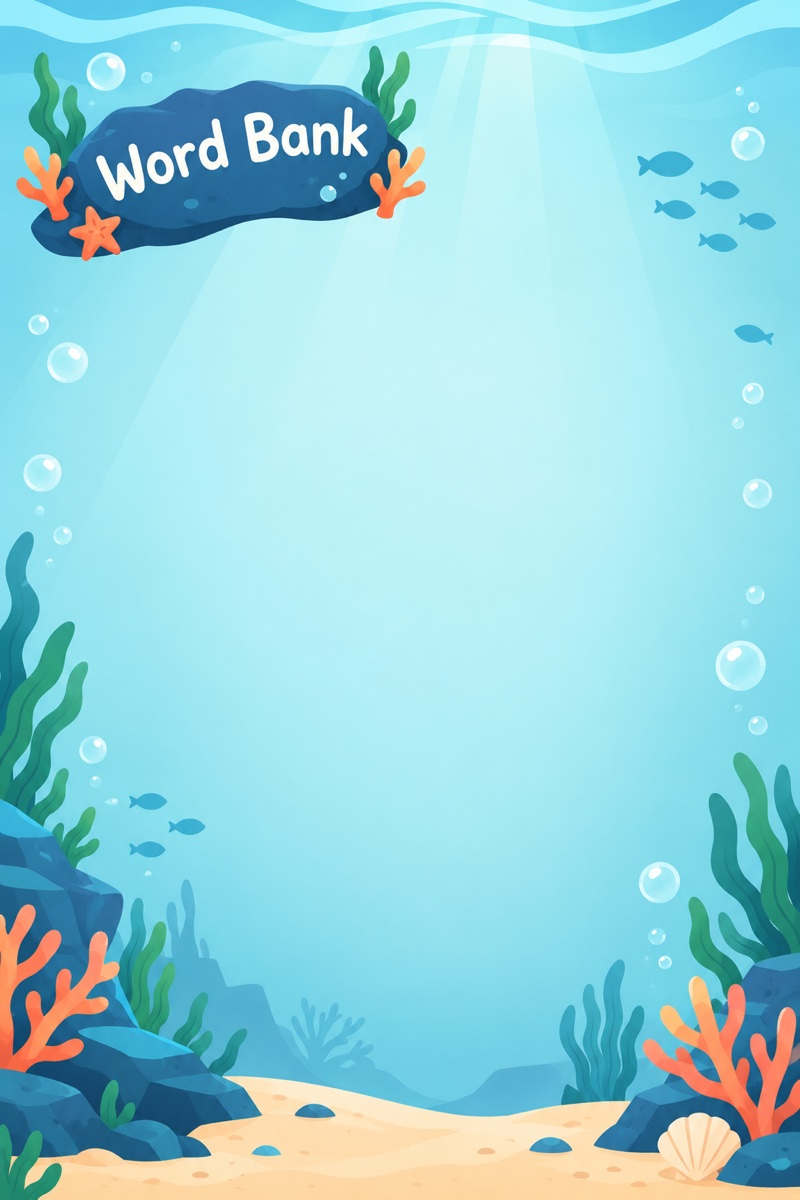
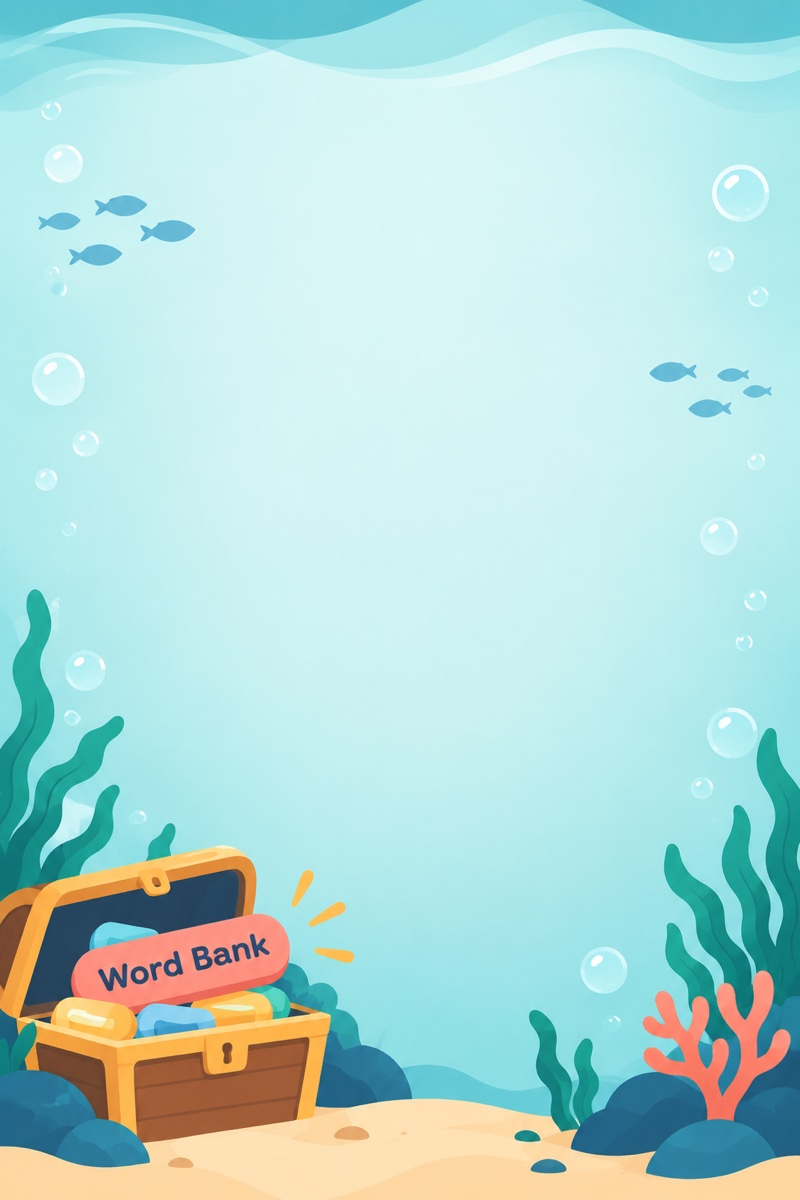
Swap Word Bank background, restore the title pill
New background art has its "Word Bank" label small and tucked into a
treasure chest at the bottom rather than as a real page title, so put
the "Word Bank" pill title back in all 3 hero views. Also dropped the
top padding hack added for the previous background (that image's
title sat up top; this one's decoration is at the bottom, no overlap
to guard against).

diff --git a/src/VocabularyGames.jsx b/src/VocabularyGames.jsx
@@ -402,6 +402,7 @@ export default function VocabularyGames({ query }) {
         <div className="vg-page">
           <div className="vg-hero">
             <span className="vg-eyebrow">Sentivo · Vocabulary</span>
+            <h1><span className="vg-pill">🐬 Word Bank</span></h1>
             <p className="vg-blurb">Results for "{query.trim()}"</p>
           </div>
           <div className="vg-row"></div>
@@ -441,6 +442,7 @@ export default function VocabularyGames({ query }) {
         <div className="vg-page">
           <div className="vg-hero">
             <span className="vg-eyebrow">Sentivo · Vocabulary</span>
+            <h1><span className="vg-pill">🐬 Word Bank</span></h1>
             <p className="vg-blurb">Dive in and grow your word bank, one word at a time.</p>
           </div>
           {tabBar}
@@ -548,6 +550,7 @@ export default function VocabularyGames({ query }) {
       <div className="vg-page">
         <div className="vg-hero">
           <span className="vg-eyebrow">Sentivo · Vocabulary</span>
+          <h1><span className="vg-pill">🐬 Word Bank</span></h1>
           <p className="vg-blurb">Dive in and grow your word bank, one word at a time.</p>
         </div>
         {tabBar}
@@ -597,7 +600,7 @@ const CSS = `
 .vg-page::before { width: 60px; height: 60px; top: 18px; left: 6%; }
 .vg-page::after { width: 26px; height: 26px; top: 70px; left: 12%; }
 
-.vg-hero { text-align: center; position: relative; z-index: 1; padding-top: clamp(120px, 20vw, 220px); }
+.vg-hero { text-align: center; position: relative; z-index: 1; }
 .vg-eyebrow {
   display: block;
   font-family: 'Mulish', sans-serif;
